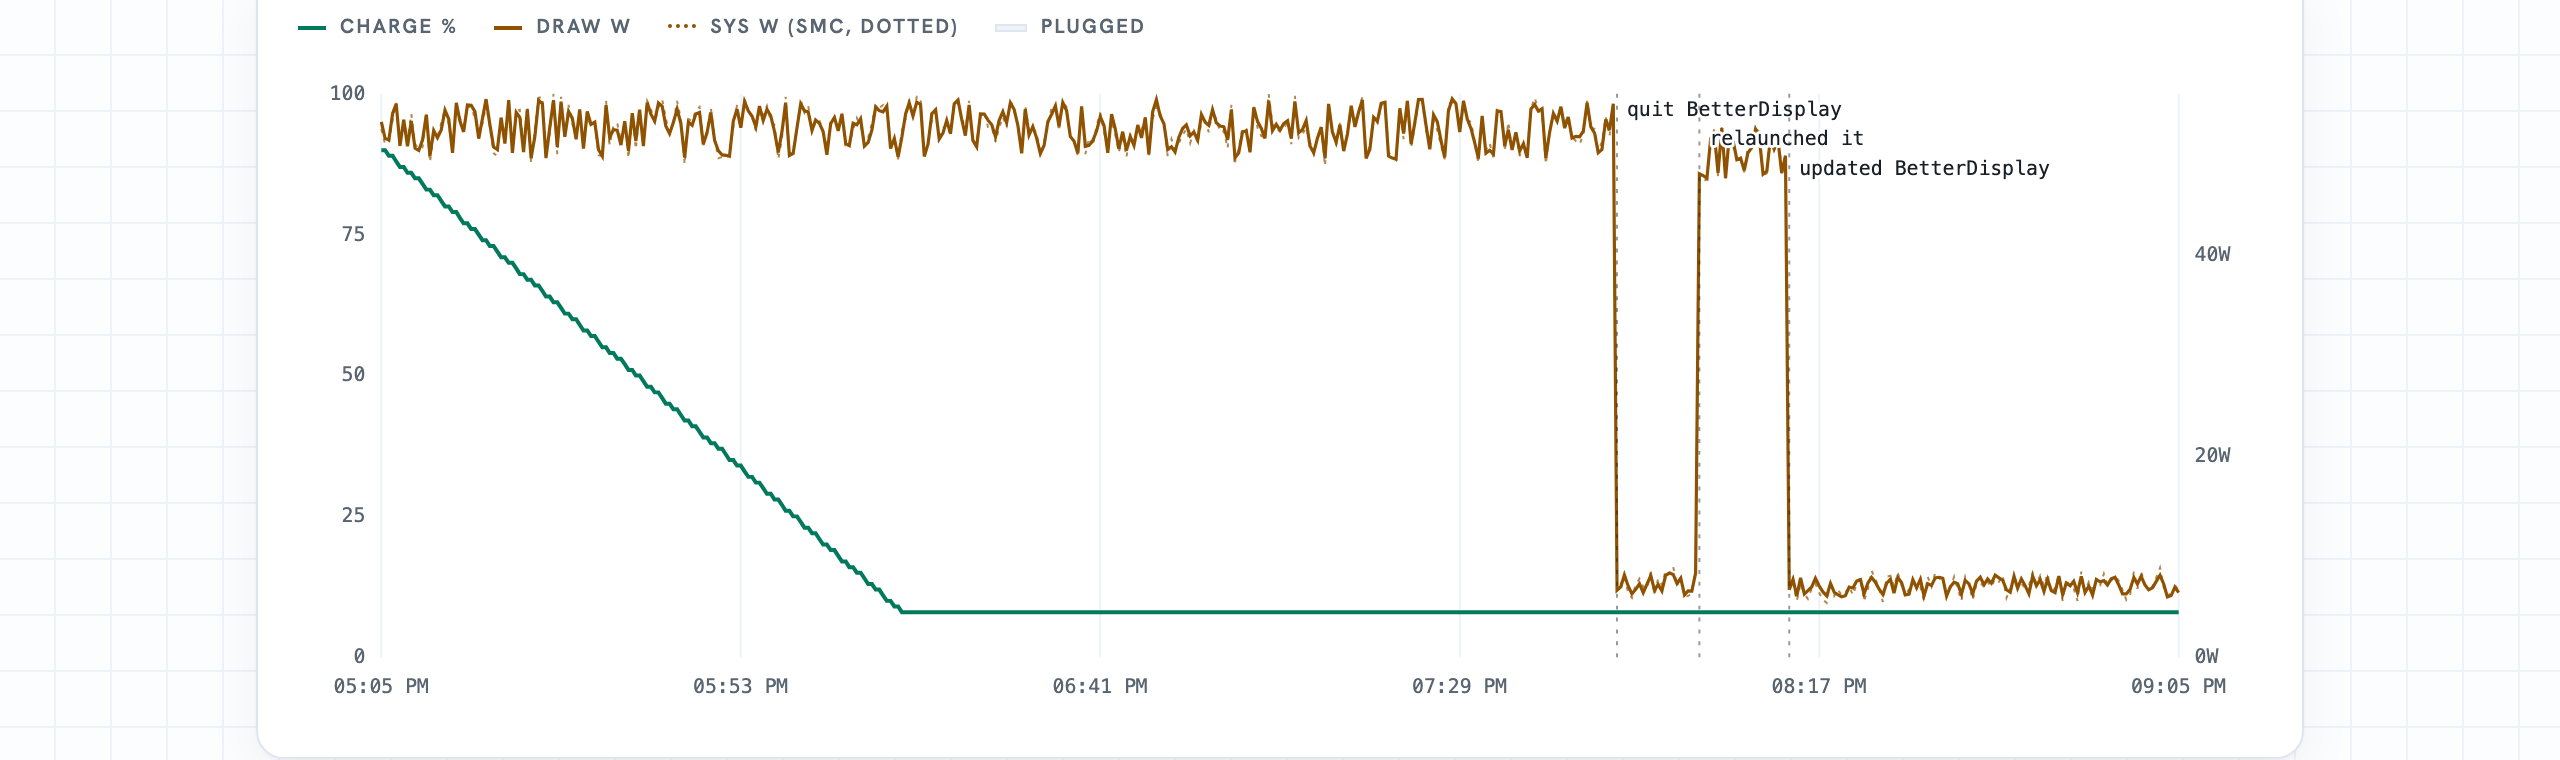
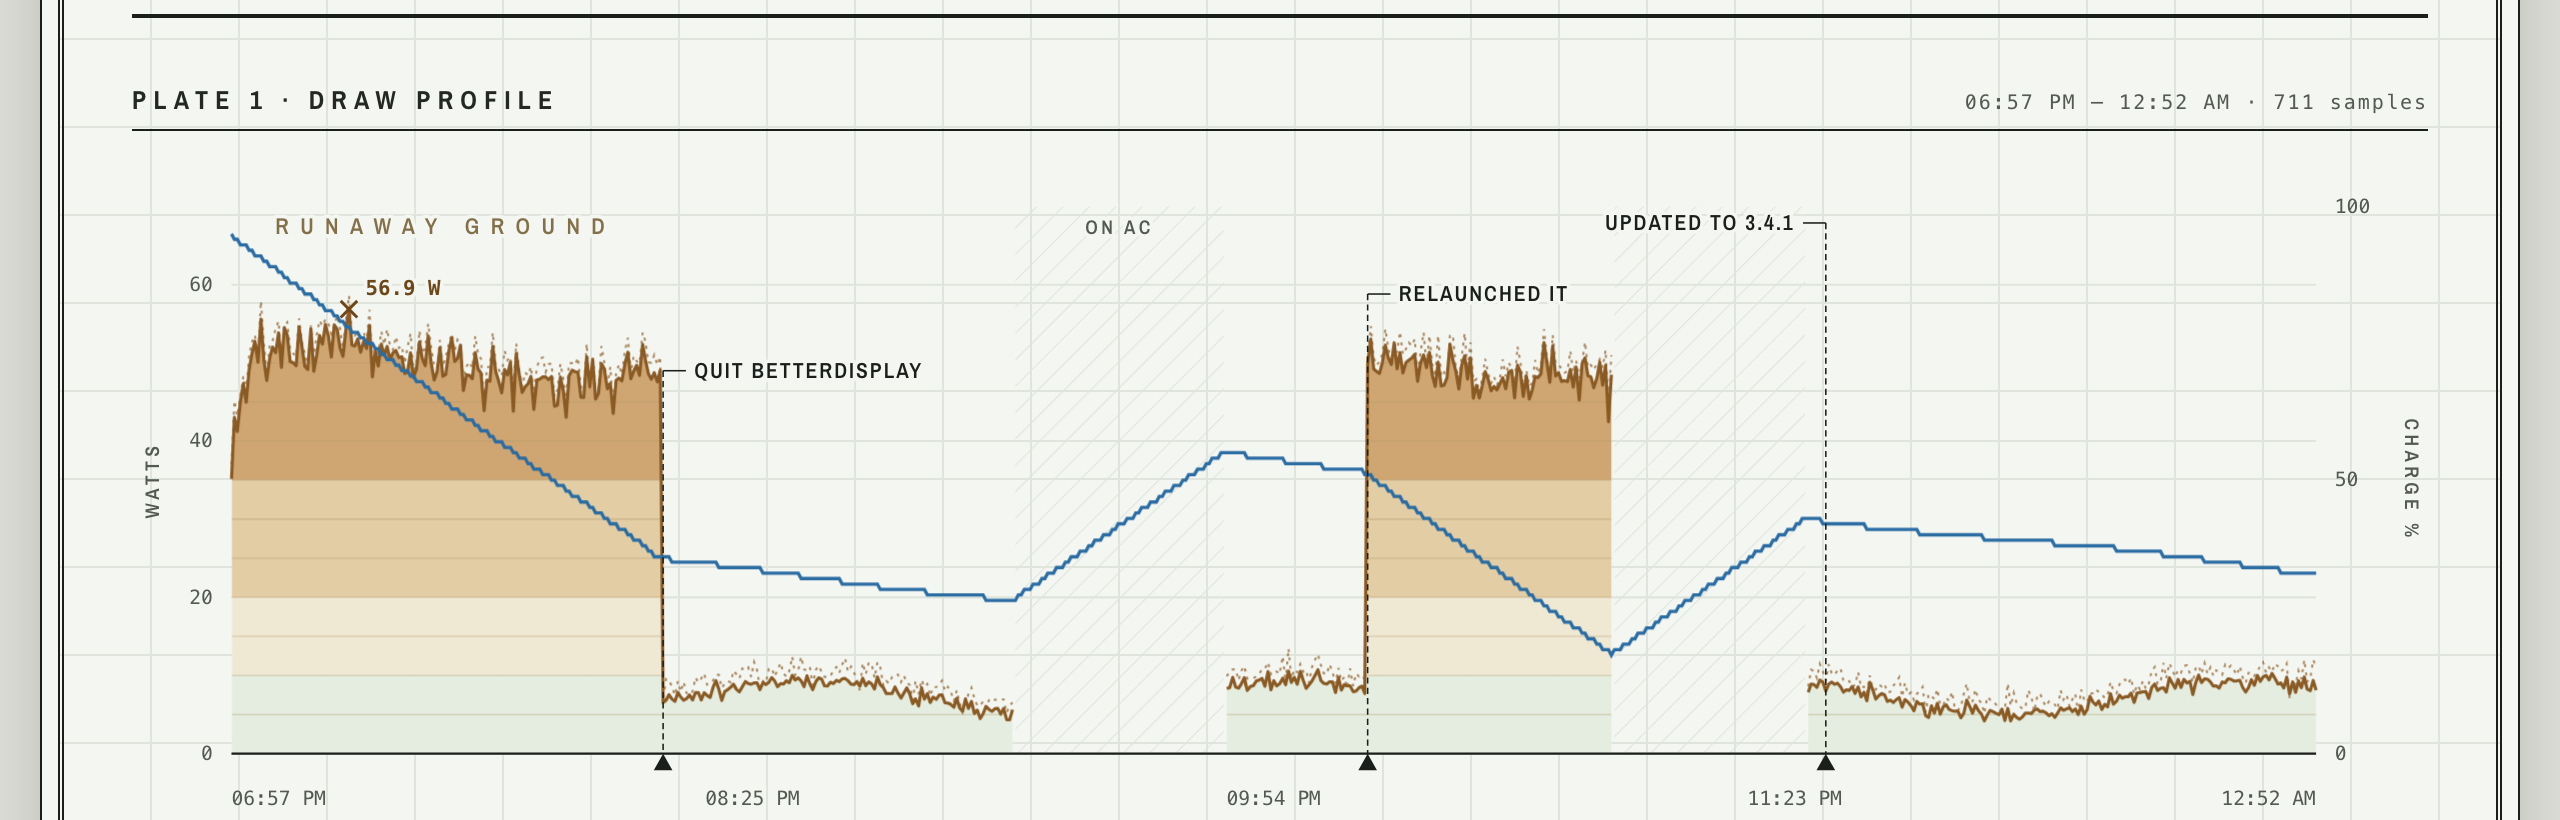
powerwatch: refresh report screenshots for the Datum redesign
Synced from the powerwatch repo. New report captures (survey-sheet world),
recropped so the benchmark card is whole in report-top and Plate 1 stands
alone in report-trace; img dimensions and alt text updated to match.

diff --git a/powerwatch/index.html b/powerwatch/index.html
@@ -327,7 +327,7 @@ footer{border-top:1px solid var(--line);padding:20px 0 48px;font-size:13px;
       long you have left. Real wording, real thresholds.</p>
     </div>
     <div class="reveal">
-      <div class="media"><div class="art tall"><img src="assets/report-trace.png" width="2560" height="760"
+      <div class="media"><div class="art tall"><img src="assets/report-trace.png" width="2560" height="820"
         alt="Battery and power trace chart with experiment markers"></div></div>
       <h3>Know the fix actually worked</h3>
       <p>Mark the timeline, change one thing, and see the before and after.
@@ -340,8 +340,8 @@ footer{border-top:1px solid var(--line);padding:20px 0 48px;font-size:13px;
   <h2 class="reveal">The whole story in one report</h2>
   <p class="lead reveal">Findings ranked by severity, the power trace over
   time, and every app's share of the energy.</p>
-  <div class="shot reveal"><img src="assets/report-top.png" width="2560" height="1720"
-    alt="The PowerWatch report: live draw 6.4 watts, findings naming BetterDisplay as the top drain" fetchpriority="high"></div>
+  <div class="shot reveal"><img src="assets/report-top.png" width="2560" height="1930"
+    alt="The PowerWatch report: a survey sheet averaging 24.4 watts on battery, with findings naming BetterDisplay as the top drain" fetchpriority="high"></div>
   <p class="cap">The report exactly as PowerWatch renders it. Demonstration
   data, reconstructing the investigation below.</p>
 </section>
@@ -359,8 +359,8 @@ footer{border-top:1px solid var(--line);padding:20px 0 48px;font-size:13px;
       there it was: a bug in an outdated BetterDisplay was holding the
       display pipeline in EDR mode, quietly burning 50 watts.</p>
     </div>
-    <div class="shot reveal"><img src="assets/report-trace.png" width="2560" height="760"
-      alt="The power trace: draw falls from 53 to 7 watts when BetterDisplay is quit, returns when relaunched, stays low after the update"></div>
+    <div class="shot reveal"><img src="assets/report-trace.png" width="2560" height="820"
+      alt="The power trace: draw falls from about 50 watts to 7 when BetterDisplay is quit, returns when relaunched, stays low after the update"></div>
     <p class="cap">The proof, reconstructed with demonstration data. Quit it
     and the draw fell to 7 watts. Relaunched it and the drain came back.
     Updated it, fixed for good.</p>
